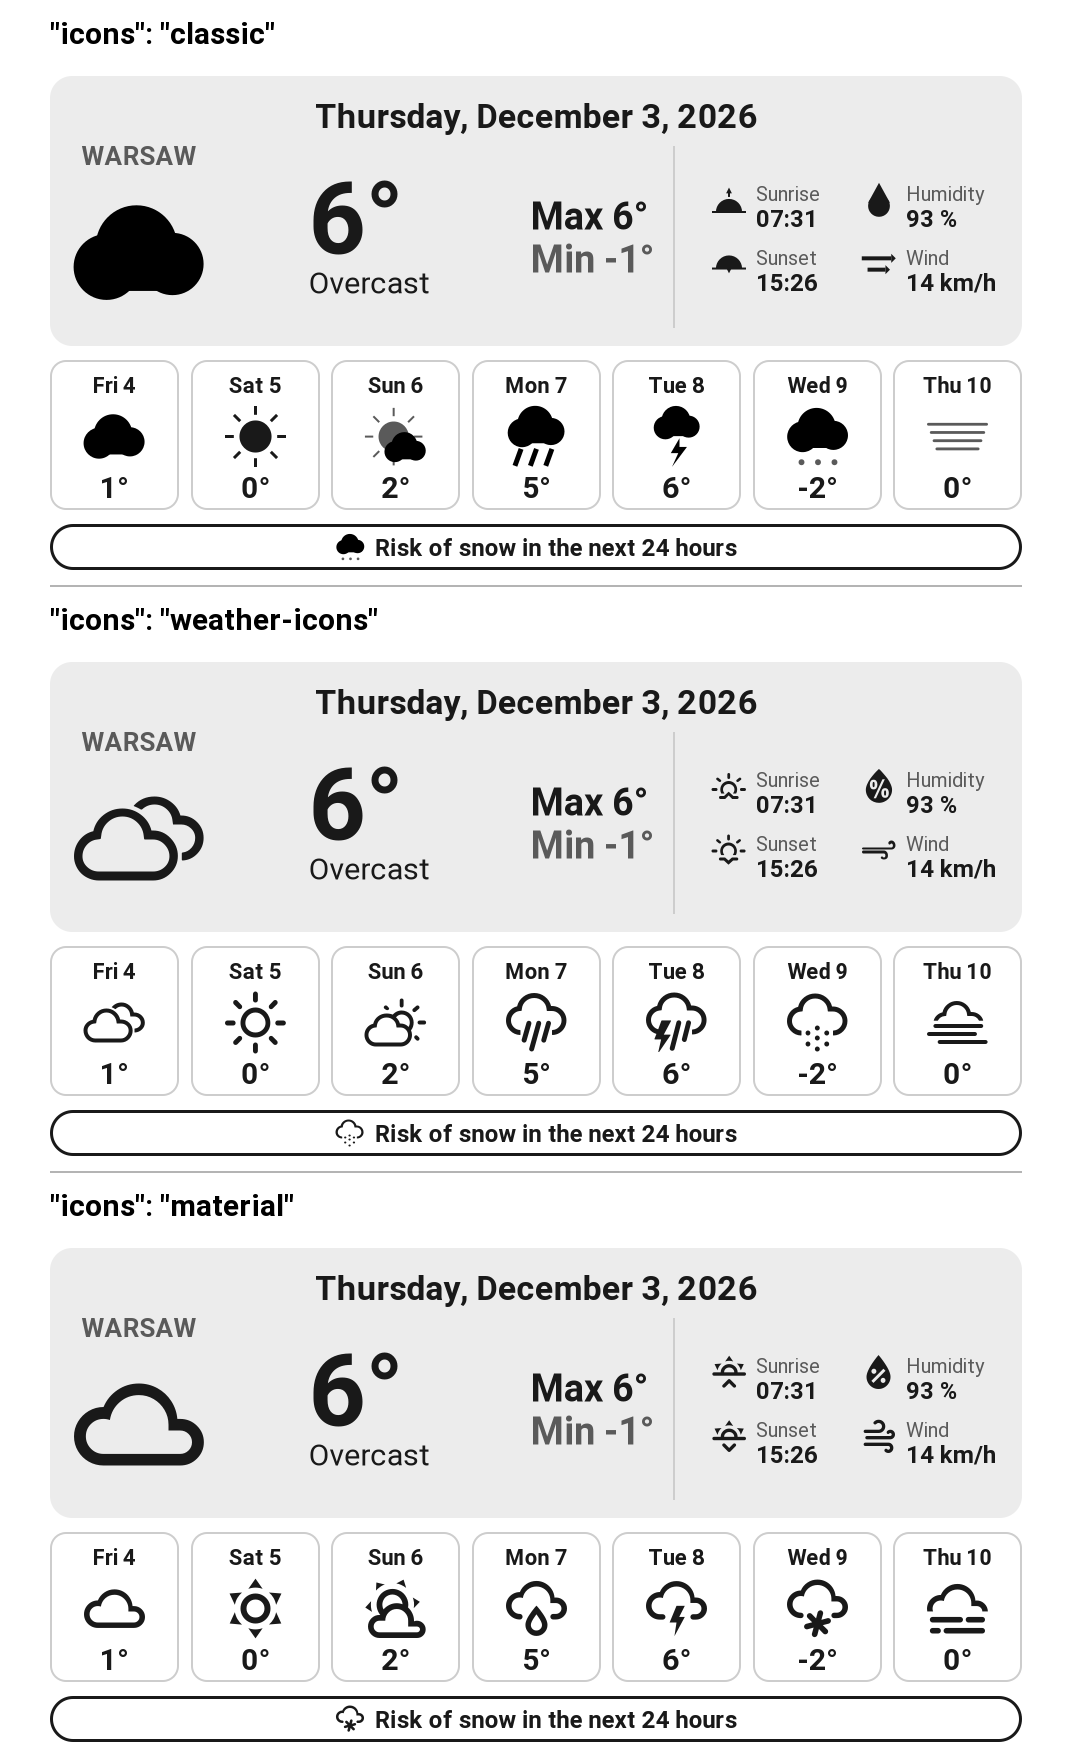
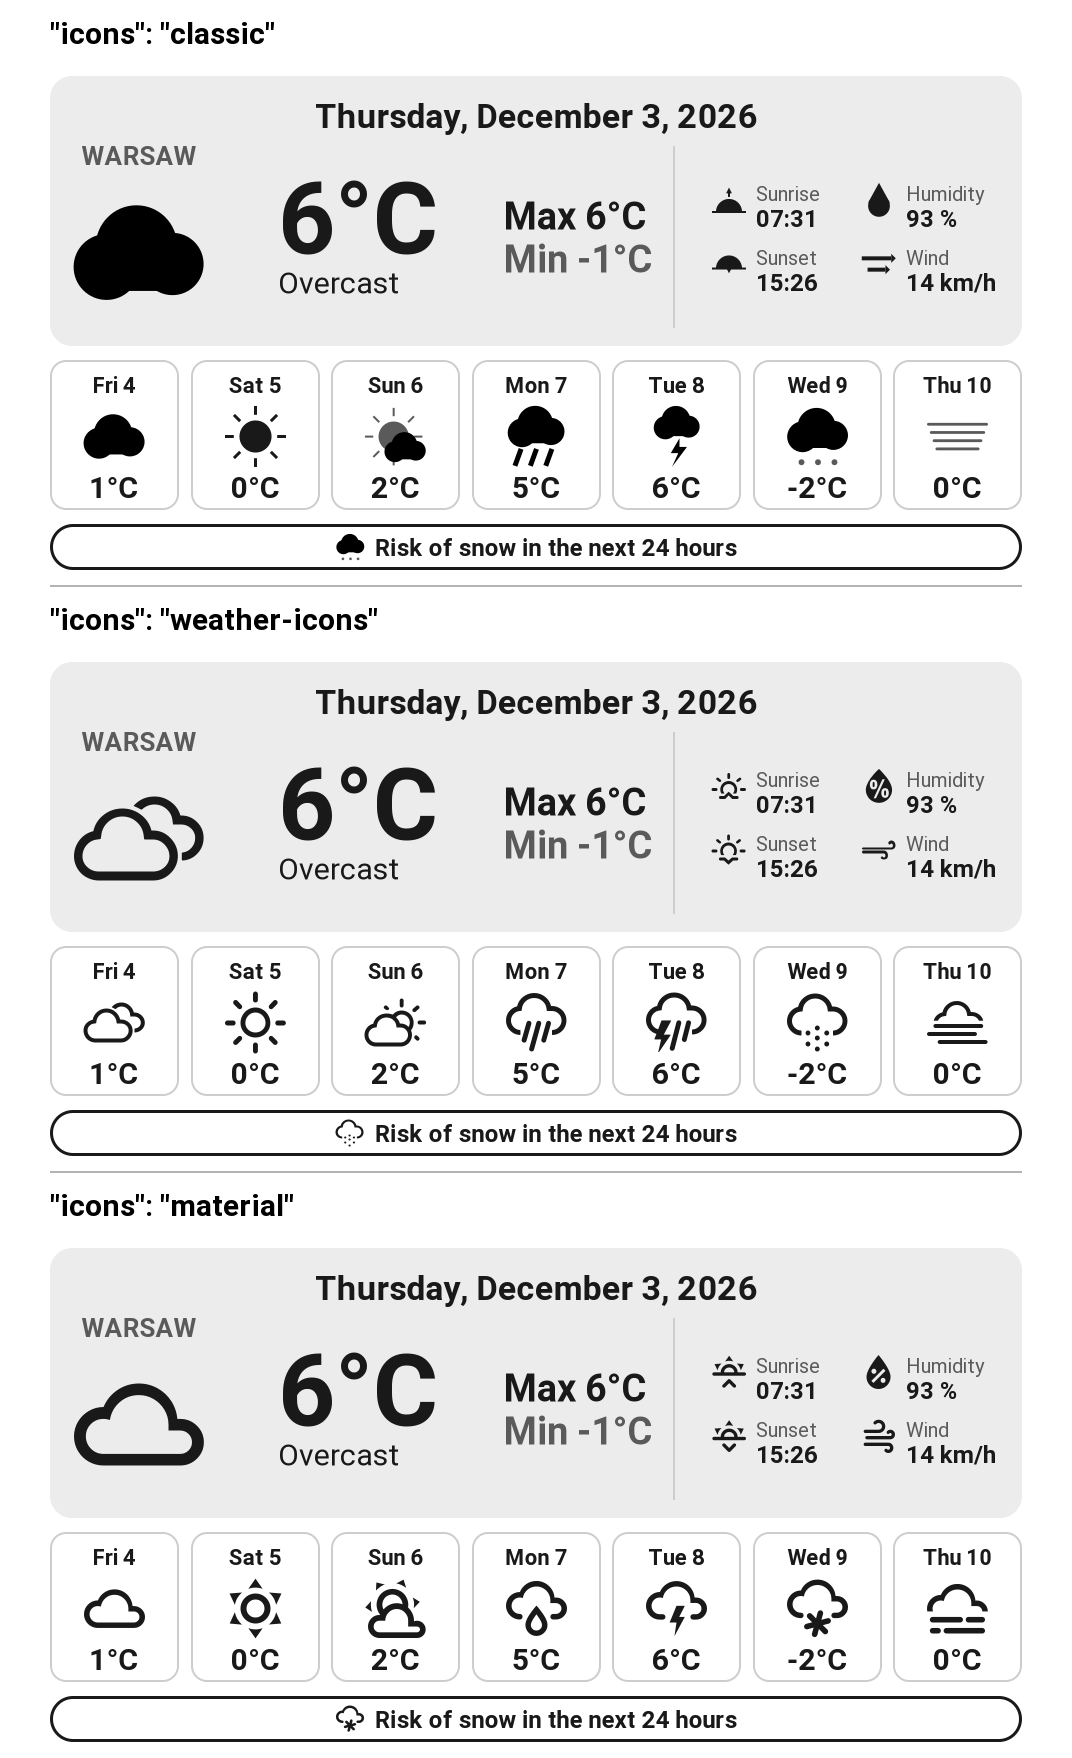
Show a starting screen at once, units on every temperature, and a settings menu that follows the changes
- The station displays its starting message as soon as it starts, and again
  once the interface is stopped, instead of a blank screen until Python runs.
- Temperatures read 13°C or 55°F everywhere; the current temperature shrinks
  when it would not fit, such as -12°C.
- Settings buttons reload the KUAL menu, with [x] on the current value.
  set.sh updates menu.json with sed first, since KUAL reloads it 250 ms after
  the press, too soon for Python; menu.json holds one button per line for it.

Claude-Session: https://claude.ai/code/session_01ArRJHWoxrTZihEERid19vz

diff --git a/kindleweather/lib/kindle_weather/settings.py b/kindleweather/lib/kindle_weather/settings.py
@@ -3,13 +3,16 @@
 python3 -m kindle_weather.settings SETTING VALUE   changes config.json, then the menu
 python3 -m kindle_weather.settings                 rewrites the menu from config.json
 
-The settings buttons run bin/set.sh. The menu names the current values, which
-KUAL displays the next time it opens: it does not wait for the change to reload.
+A settings button runs bin/set.sh, then KUAL reloads the menu a quarter of a
+second later. That is too soon for Python: set.sh first updates the menu with
+sed, which the one-button-per-line layout of menu.json makes simple, then runs
+this module.
 """
 
 from __future__ import annotations
 
 import json
+import os
 import sys
 from pathlib import Path
 
@@ -70,7 +73,7 @@ def change(setting: str, value: str) -> None:
     for parent in parents:
         section = section.setdefault(parent, {})
     section[key] = value
-    CONFIG_PATH.write_text(json.dumps(raw, indent=2, ensure_ascii=False) + "\n", "utf-8")
+    _write(CONFIG_PATH, json.dumps(raw, indent=2, ensure_ascii=False) + "\n")
 
 
 def write_menu() -> None:
@@ -82,31 +85,48 @@ def write_menu() -> None:
         "temperature": config.temperature_unit,
         "clock": config.clock,
     }
-    # One submenu per setting, named after its current value.
+    # A submenu per setting, titled with its current value, which is also
+    # marked [x] among the choices. set.sh relies on these names.
     settings = []
-    for priority, (setting, (label, _, values)) in enumerate(SETTINGS.items(), start=1):
+    for priority, (setting, (title, _, values)) in enumerate(SETTINGS.items(), start=1):
         choices = [
             {
-                "name": name,
+                "name": f"[{'x' if value == current[setting] else ' '}] {name}",
                 "priority": index,
                 "action": f"sh bin/set.sh {setting} {value}",
-                # Stay in the menu, with a check mark on the chosen value.
+                # Stay in KUAL, and reload the menu to show the change.
                 "exitmenu": False,
-                "checked": True,
+                "refresh": True,
             }
             for index, (value, name) in enumerate(values.items(), start=1)
         ]
         name = values[current[setting]]
-        settings.append({"name": f"{label}: {name}", "priority": priority, "items": choices})
+        settings.append({"name": f"{title}: {name}", "priority": priority, "items": choices})
     items = [
         {"name": "Start weather station", "priority": 1, "action": "sh bin/start.sh"},
         {"name": "Settings", "priority": 2, "items": settings},
         {"name": "Diagnostic", "priority": 3, "action": "sh bin/diagnose.sh"},
     ]
     menu = {"items": [{"name": "KindleWeather", "priority": 1, "items": items}]}
-    with open(MENU_PATH, "w", encoding="utf-8", newline="\n") as file:
-        json.dump(menu, file, indent=2)
-        file.write("\n")
+    _write(MENU_PATH, _menu_json(menu) + "\n")
+
+
+def _menu_json(entry: dict, depth: int = 0) -> str:
+    """JSON with one button per line, for set.sh to edit with sed."""
+    indent = "  " * depth
+    if "items" not in entry:
+        return indent + json.dumps(entry)
+    fields = json.dumps({key: value for key, value in entry.items() if key != "items"})[1:-1]
+    children = ",\n".join(_menu_json(child, depth + 1) for child in entry["items"])
+    return f'{indent}{{{fields}{", " if fields else ""}"items": [\n{children}\n{indent}]}}'
+
+
+def _write(path: Path, text: str) -> None:
+    """Replace the file at once, so that KUAL never reads it half written."""
+    temporary = path.with_name(path.name + ".tmp")
+    with open(temporary, "w", encoding="utf-8", newline="\n") as file:
+        file.write(text)
+    os.replace(temporary, path)
 
 
 if __name__ == "__main__":

diff --git a/kindleweather/lib/kindle_weather/render.py b/kindleweather/lib/kindle_weather/render.py
@@ -288,26 +288,28 @@ class _Dashboard:
             draw, forecast.current.weather_code, (left, icon_top, left + place_column, body_bottom)
         )
 
-        max_text = f"Max {round(forecast.today.temperature_max)}°"
-        min_text = f"Min {round(forecast.today.temperature_min)}°"
+        unit = forecast.temperature_unit
+        max_text = f"Max {round(forecast.today.temperature_max)}{unit}"
+        min_text = f"Min {round(forecast.today.temperature_min)}{unit}"
         min_max_width = max(text_width(draw, t, fonts["min_max"]) for t in (max_text, min_text))
         min_max_x = right - min_max_width
         min_max = [(max_text, fonts["min_max"], INK), (min_text, fonts["min_max"], GRAY_DARK)]
         self._text_stack(min_max_x, center_y, min_max, 14)
 
         # Temperature and description, centered between the city column and min/max.
-        temperature = f"{round(forecast.current.temperature)}°"
+        temperature = f"{round(forecast.current.temperature)}{unit}"
         description = self.locale.describe(forecast.current.weather_code)
         space_left, space_right = left + place_column + 30, min_max_x - 30
-        description_font = _shrink_to_fit(
-            draw, description, fonts["description"], space_right - space_left
-        )
+        # Both shrink if needed, such as for "-12°C" or a long description.
+        space = space_right - space_left
+        temperature_font = _shrink_to_fit(draw, temperature, fonts["temperature"], space)
+        description_font = _shrink_to_fit(draw, description, fonts["description"], space)
         block_width = max(
-            text_width(draw, temperature, fonts["temperature"]),
+            text_width(draw, temperature, temperature_font),
             text_width(draw, description, description_font),
         )
         block_x = (space_left + space_right - block_width) / 2
-        main = [(temperature, fonts["temperature"], INK), (description, description_font, INK)]
+        main = [(temperature, temperature_font, INK), (description, description_font, INK)]
         self._text_stack(block_x, center_y, main, 18)
 
         self._details_panel(divider_x + padding, center_y, panel_width)
@@ -364,7 +366,7 @@ class _Dashboard:
             )
             label = self.locale.format_short_date(day.date)
             draw_centered_text(self.draw, center_x, top + 12, label, date_font, INK)
-            temperature = f"{day.temperature_mean}°"
+            temperature = f"{day.temperature_mean}{self.forecast.temperature_unit}"
             temperature_box = self.draw.textbbox((0, 0), temperature, font=temperature_font)
             temperature_y = bottom - 12 - temperature_box[3]
             draw_centered_text(
@@ -426,8 +428,9 @@ class _Dashboard:
         for fraction in (0, 0.5, 1):
             y = bottom - fraction * (bottom - top)
             draw.line([left, y, right, y], fill=GRAY_LIGHT, width=1)
-        draw.text((MARGIN, top - 12), f"{round(high)}°", font=font, fill=GRAY_DARK)
-        draw.text((MARGIN, bottom - 12), f"{round(low)}°", font=font, fill=GRAY_DARK)
+        unit = forecast.temperature_unit
+        draw.text((MARGIN, top - 12), f"{round(high)}{unit}", font=font, fill=GRAY_DARK)
+        draw.text((MARGIN, bottom - 12), f"{round(low)}{unit}", font=font, fill=GRAY_DARK)
 
         points = [(left + f * (right - left), y_of(h.temperature)) for f, h in samples]
         draw.polygon([(left, bottom), *points, (right, bottom)], fill=GRAY_PALE)

diff --git a/README.md b/README.md
@@ -113,17 +113,17 @@ ssh root@KINDLE_IP "mv /mnt/us/config.json.bak /mnt/us/extensions/kindleweather/
 KindleWeather
   Start weather station
   Settings
-    Language: English       > English, Francais, Deutsch, Espanol, Italiano, Portugues, Nederlands, Polski
-    Orientation: Portrait   > Portrait, Landscape
-    Icons: Classic          > Classic, Weather Icons, Material
-    Temperature: Celsius    > Celsius, Fahrenheit
-    Clock: 24-hour          > 24-hour, 12-hour (AM/PM)
+    Language: English       > [x] English, [ ] Francais, [ ] Deutsch, [ ] Espanol...
+    Orientation: Portrait   > [x] Portrait, [ ] Landscape
+    Icons: Classic          > [x] Classic, [ ] Weather Icons, [ ] Material
+    Temperature: Celsius    > [x] Celsius, [ ] Fahrenheit
+    Clock: 24-hour          > [x] 24-hour, [ ] 12-hour (AM/PM)
   Diagnostic
 ```
 
-Pressing a value saves it in `config.json` and puts a check mark next to it.
-The menu shows the new value the next time KUAL opens. Change the settings
-before starting the station: KUAL is closed while it runs.
+Pressing a value saves it in `config.json`. KUAL then reloads its menu and goes
+back to its first page, where the settings show the new value. Change the
+settings before starting the station: KUAL is closed while it runs.
 
 ## Configuration
 
